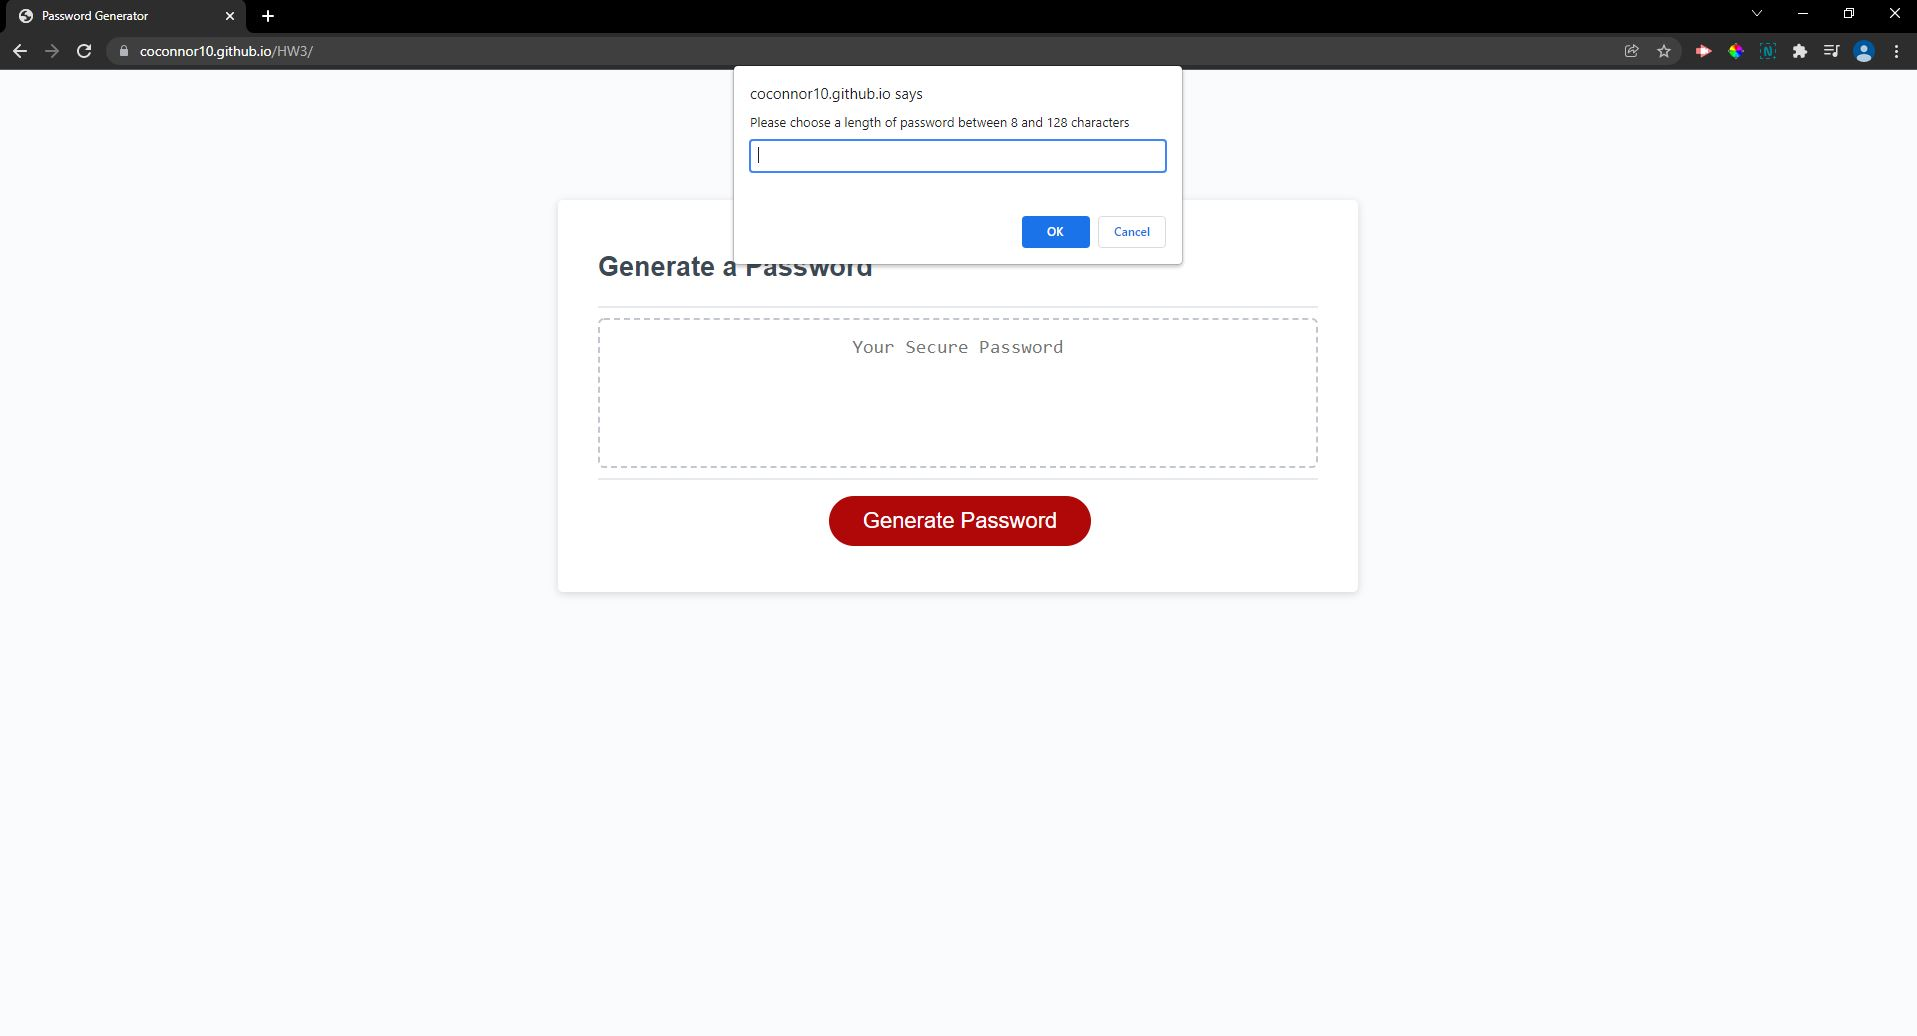
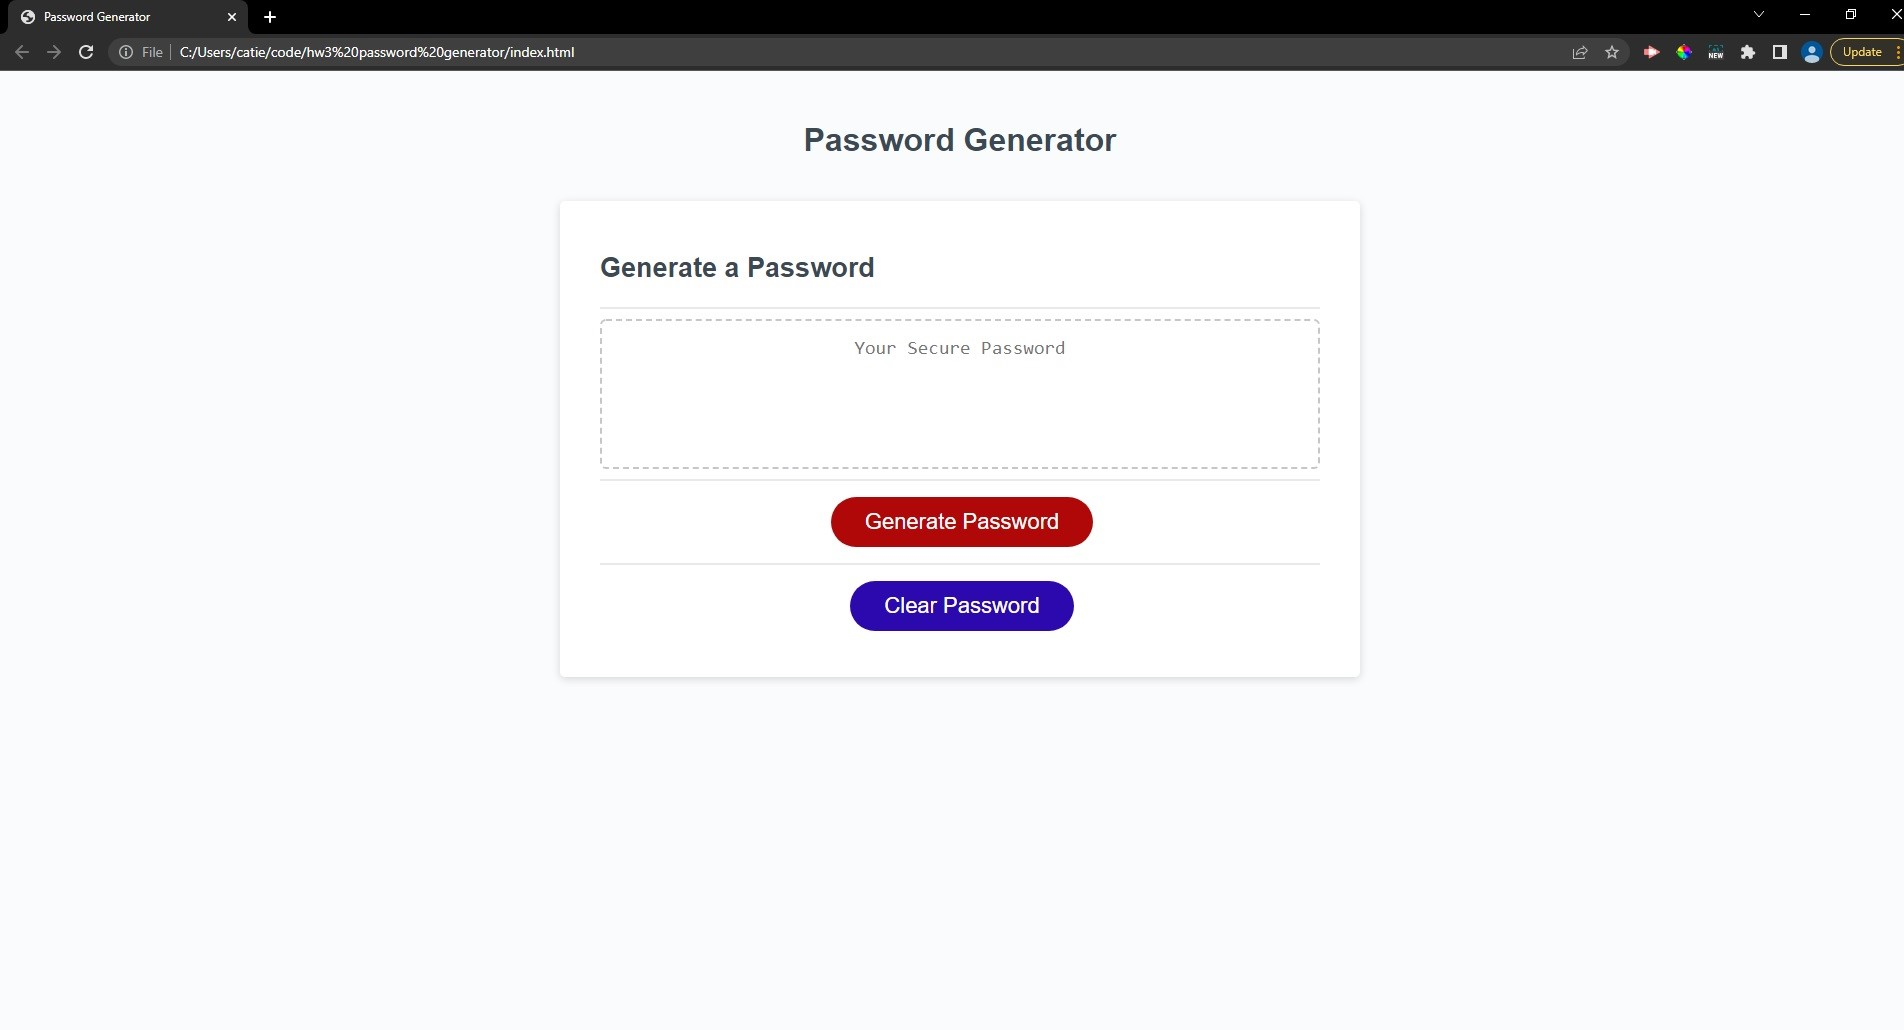
added clear button, updated ReadME, and uploaded new screenshot

diff --git a/script.js b/script.js
@@ -1,6 +1,8 @@
 // Assignment Code
 var generateBtn = document.querySelector("#generate");
 
+var clearBtn = document.querySelector("#clear");
+
 function generatePassword() {
   //prompts for password criteria
   var askLength = prompt(
@@ -56,8 +58,16 @@ function writePassword() {
   passwordText.value = password;
 }
 
+// function to clear password
+function eraseText() {
+  document.getElementById("password").value = "";
+}
+
 // Add event listener to generate button
 generateBtn.addEventListener("click", writePassword);
+
+// add event listener to clear button
+clearBtn.addEventListener("click", eraseText);
 
 //character variables
 var alphabet = [

diff --git a/style.css b/style.css
@@ -88,6 +88,22 @@ header {
   cursor: pointer;
 }
 
+.clear-btn {
+  border: none;
+  background-color: rgb(44, 8, 175);
+  border-radius: 25px;
+  box-shadow: rgba(0, 0, 0, 0.1) 0px 1px 6px 0px rgba(0, 0, 0, 0.2) 0px 1px 1px
+    0px;
+  color: hsl(0, 0%, 100%);
+  display: inline-block;
+  font-size: 22px;
+  line-height: 22px;
+  margin: 16px 16px 16px 20px;
+  padding: 14px 34px;
+  text-align: center;
+  cursor: pointer;
+}
+
 button[disabled] {
   cursor: default;
   background: #c0c7cf;

diff --git a/index.html b/index.html
@@ -24,6 +24,11 @@
       <div class="card-footer">
         <button id="generate" class="btn">Generate Password</button>
       </div>
+
+      <div class="card-footer">
+        <button id="clear" class="clear-btn">Clear Password</button>
+      </div>
+
     </div>
   </div>
   <script src="script.js"></script>

diff --git a/README.md b/README.md
@@ -1,6 +1,6 @@
 # Password Generator
 
-This is a project for coding bootcamp. It has been designed to generate a random password based on the chosen prompted criteria. When the red button is clicked, the user will be prompted to pick different types of characters to use, as well as a password length. Once all the prompts are answered, a randomize password will be displayed on the page.
+This is a project for coding bootcamp. It has been designed to generate a random password based on the chosen prompted criteria. When the red button is clicked, the user will be prompted to pick different types of characters to use, as well as a password length. Once all the prompts are answered, a randomize password will be displayed on the page. If the user wishes to start over and generate a new random password, they will be able to click on the "Clear Password" button to clear the text area and start fresh.
 
 ## Screenshot
 
